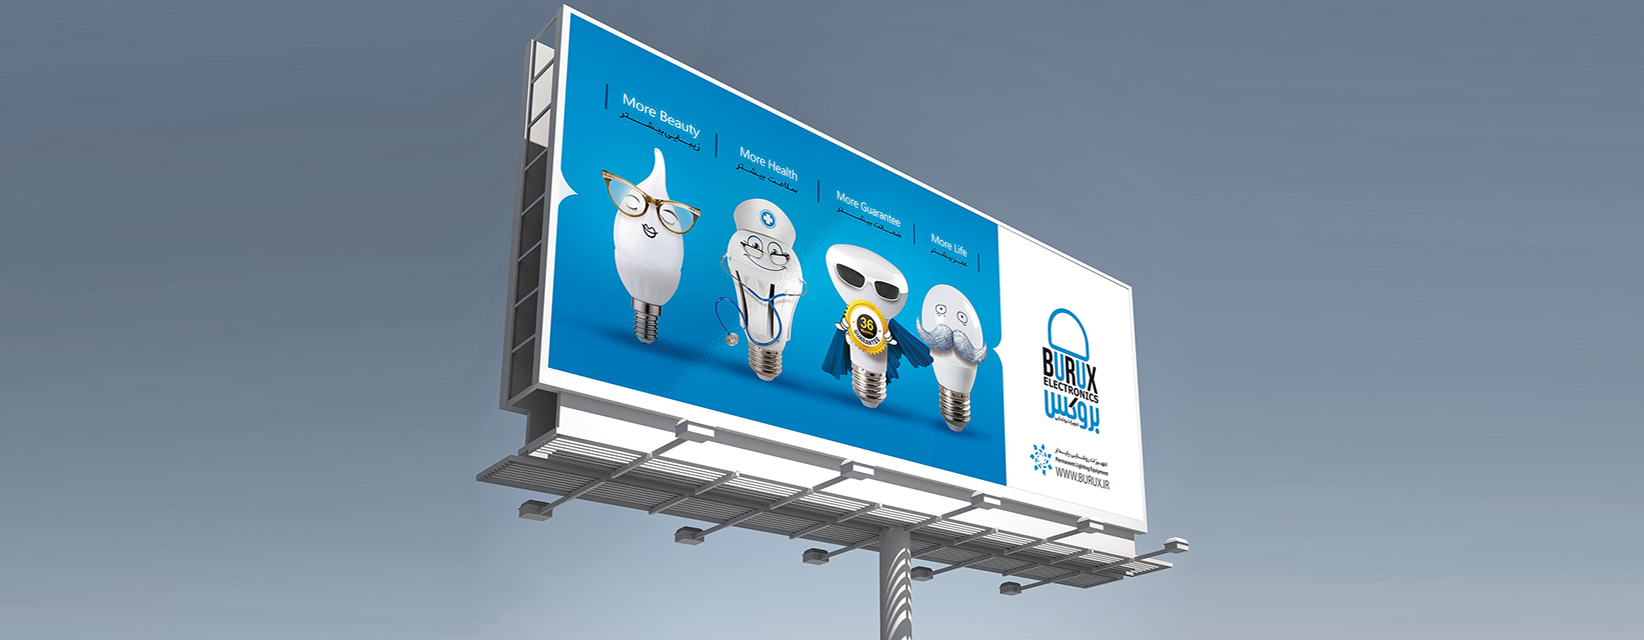
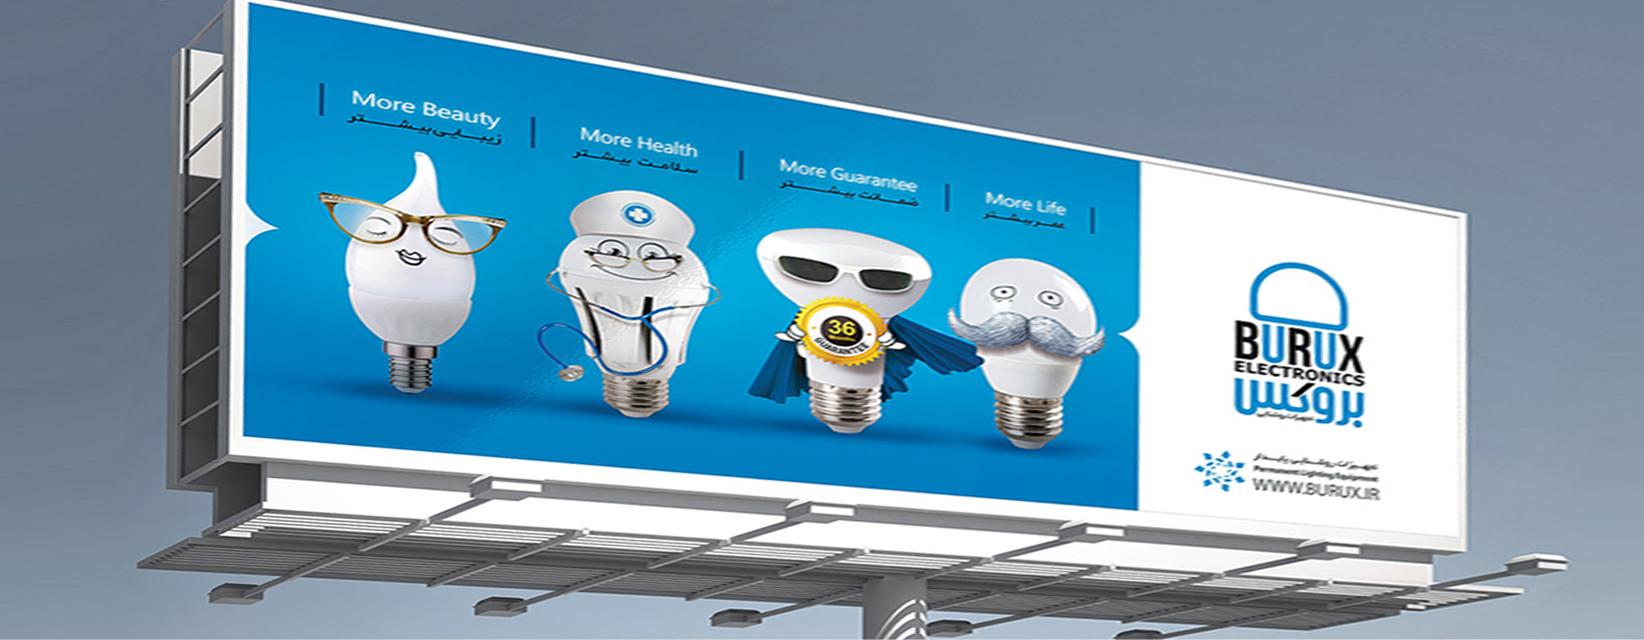
.

diff --git a/src/pages/my-burux/index.js b/src/pages/my-burux/index.js
@@ -1,6 +1,6 @@
 import React,{Component} from 'react';
 import RVD from 'react-virtual-dom';
-import myBuruxHeaderSrc from './../../utils/burux-header.jpg';
+import myBuruxHeaderSrc from './../../images/Burux-billboard-01.jpg';
 import bill from './../../images/home-slide-4.jpg';
 import getSvg from './../../utils/getSvg';
 import appContext from '../../app-context';
@@ -12,6 +12,7 @@ import './index.css';
 import SabteGarantiJadid from '../../components/garanti/sabte-garanti-jadid/sabte-garanti-jadid';
 import Popup from '../../components/popup/popup';
 import Register from '../../components/register/register';
+import logo3 from './../../images/logo3.png';
 export default class MyBurux extends Component{
     static contextType = appContext;
     constructor(props){
@@ -128,7 +129,7 @@ export default class MyBurux extends Component{
                 },
                 {size:16},
                 this.parts_layout(),
-                {size:96,html:getSvg(18),align:'vh'}
+                {size:120,html:<img src={logo3} width='120' height='120'/>,align:'vh'}
             ]
         }
     }
